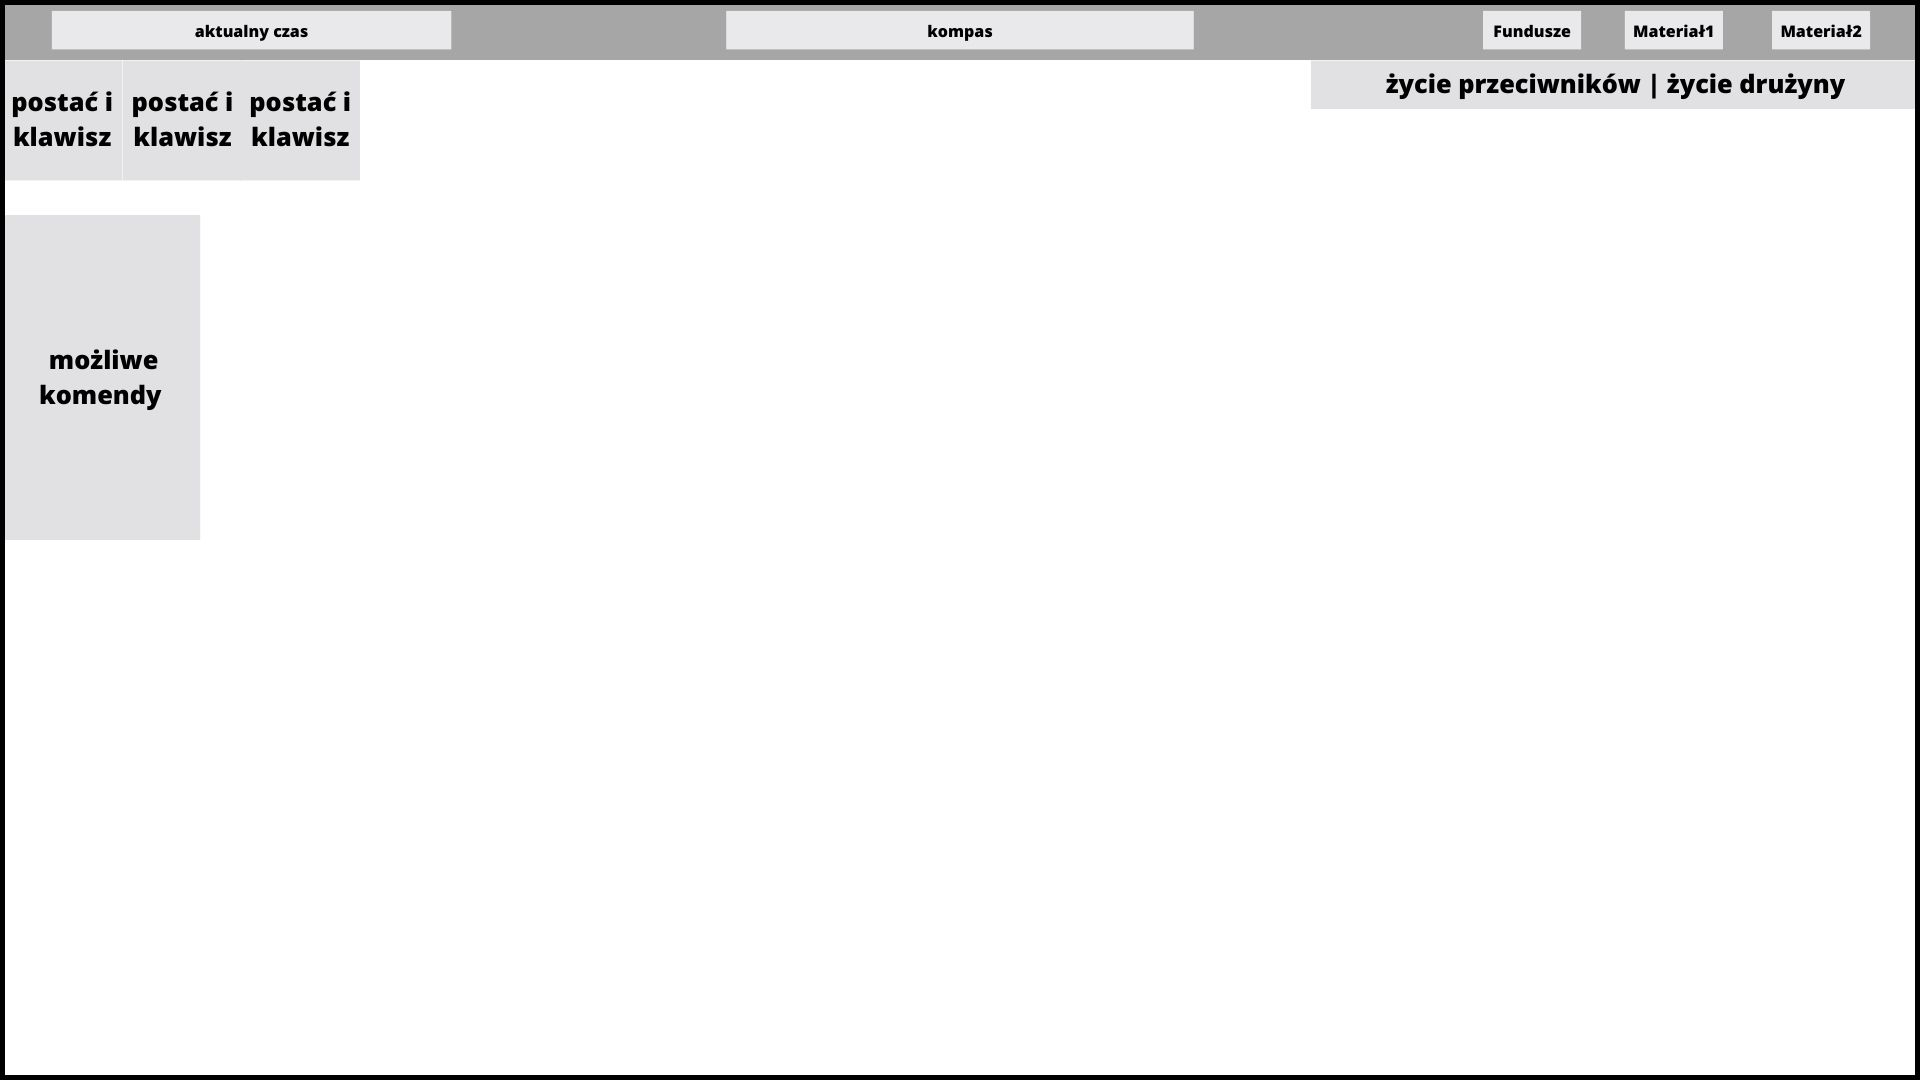
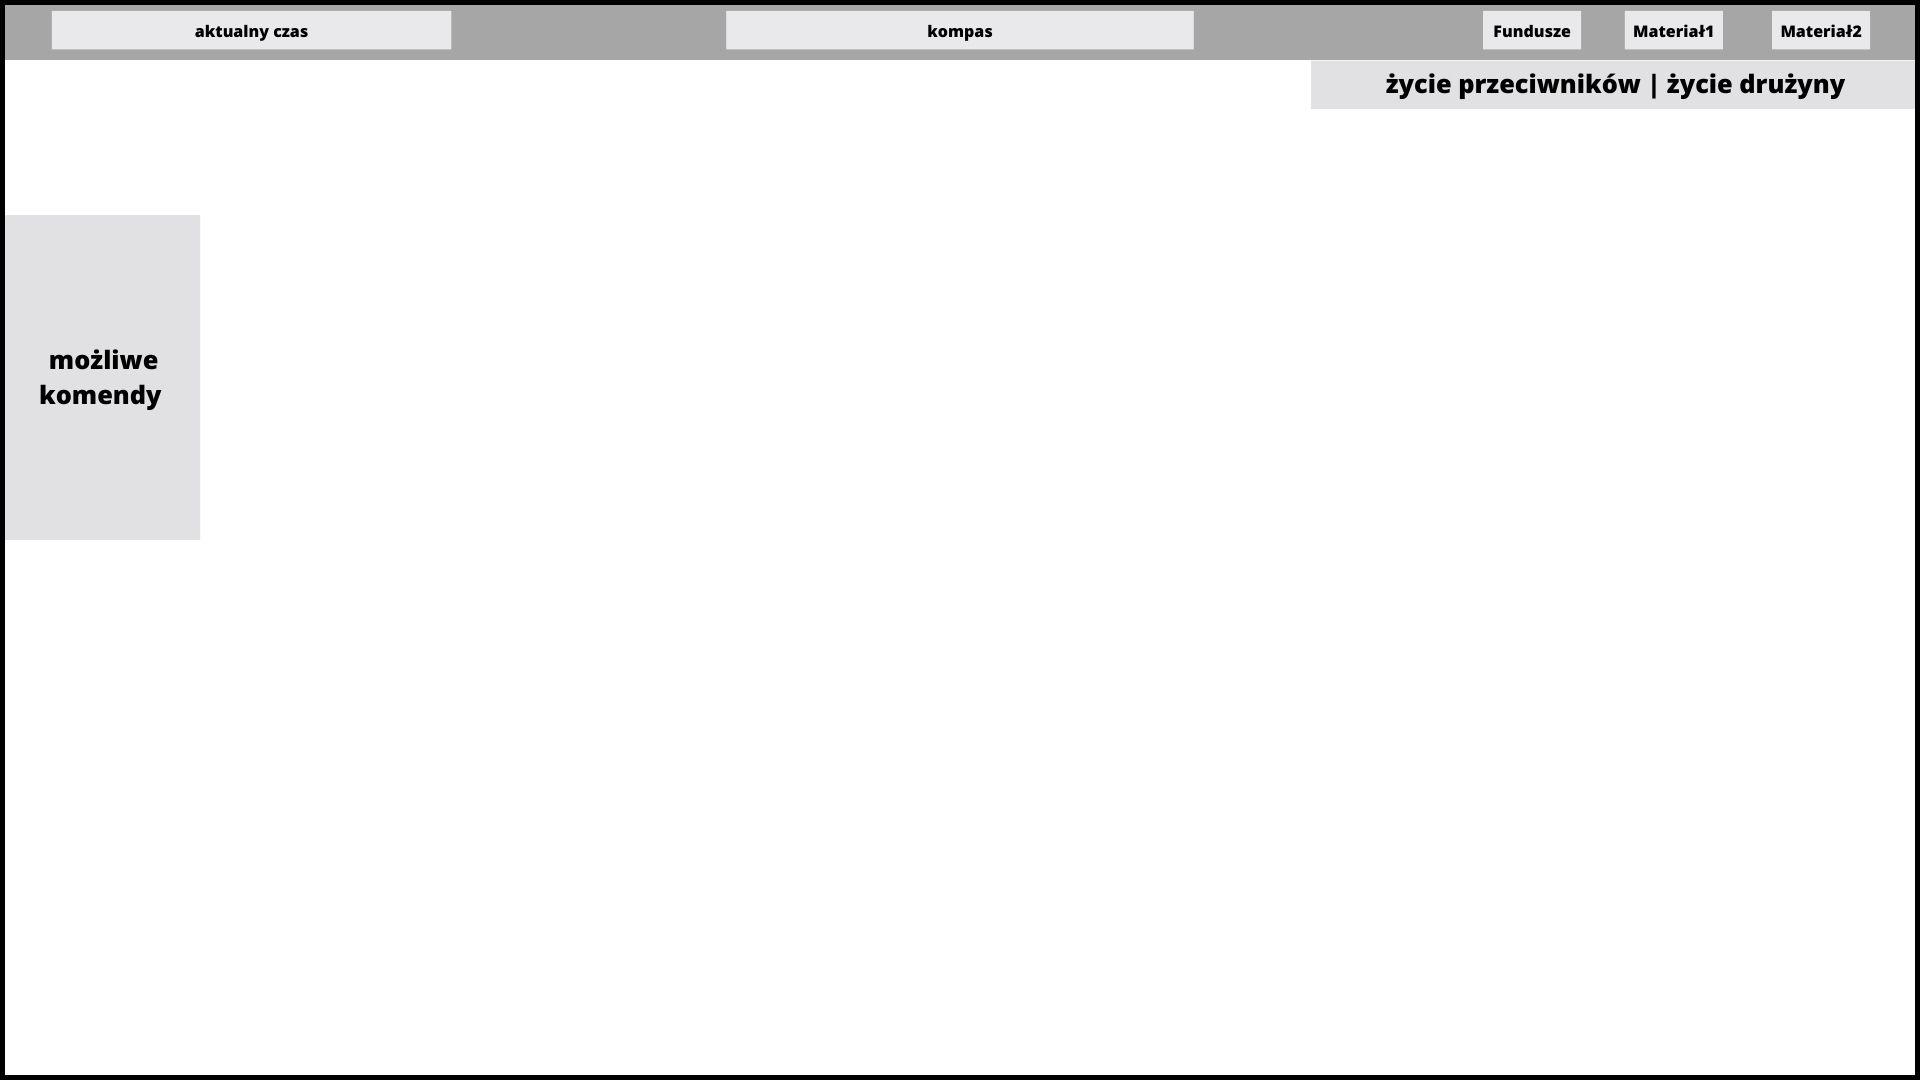
image fix

Changed region(s): [[0.0, 0.0306, 0.1875, 0.1833]]

diff --git a/docs/chapters/projekt/ui_proj.tex b/docs/chapters/projekt/ui_proj.tex
@@ -2,65 +2,47 @@
 Interfejs użytkownika (ang. user interface, UI)jest to zbiór najważniejszych informacji przedstawiony graczowi w sposób czytelny. Może się to odbywać za pomocą na przykład obrazków, tekstów, czy wskaźników. Dzięki UI możliwy jest wgląd w aktualny stan wiedzy grywalnej postaci. 
 Projekt interfejsu użytkownika przewiduje trzy tryby: zwykły, budowania oraz walki. Zadaniem każdego z nich będzie odzwierciedlenie aktualnej wiedzy granej postaci z naciskiem na najpotrzebniejsze w danej chwili informacje.
 	
-\subsubsection{Tryb zwykły}
-Tryb zwykły przewiduje podstawowe funkcje, takie jak pokazanie:
+\subsection{Interfejs podstawowy}
+Interfejs podstawowy przewiduje funkcje, takie jak pokazanie:
 surowców i funduszy,
 aktualnego czasu w grze, 
 kompasu,
-ikony postaci, na które gracz może się przełączyć;
-Inspiracją dla górnego paska z informacjami oraz dla ikon dostępnych postaci jest ten użyty w grze Warcraft 3. Prostota i surowość użytego stylu będą współgrać z klimatem gry.
+Inspiracją dla górnego paska z informacjami jest ten użyty w grze Warcraft 3. Prostota i surowość stylu będą współgrać z klimatem gry.
 
 \begin{figure}[htbp]
     \centering
-    \includegraphics[width=0.9\textwidth]{images/ui/warcraft3.png}
-    \caption{Pasek z informacjami oraz dla ikony dostępnych postaci w grze Warcraft 3.}\label{fig:Warcraft3}
+    \includegraphics[width=1.0\textwidth]{images/ui/warcraft3_gorny_pasek.png}
+    \caption{Pasek z informacjami w grze Warcraft 3.}\label{fig:Warcraft3}
 \end{figure}
 
 W naszej grze skupimy się jednak na tym, aby interfejs użytkownika zabierał jak najmniej miejsca. Dlatego też projekt zakłada, że poszczególne obiekty nie będą ze sobą połączone, a jedynie “dryfować” w przestrzeni.
 Jako ważny element tej części UI zawarty zostanie kompas, wzorowany na tym z gry The Elder Scrolls V: Skyrim.
 
-\begin{figure}[htbp]
-    \centering
-    \includegraphics[width=0.9\textwidth]{images/ui/compassSkyrim.png}
-    \caption{Kompas z gry Skyrim}\label{fig:Fallout}
-\end{figure}
 
-Szacowany projekt trybu zwykłego UI wyświetlono na rysunku \ref{fig:ui_main} .
+Szacowany projekt interfejsu podstawowego UI wyświetlono na rysunku \ref{fig:ui_main} .
 \begin{figure}[htbp]
     \centering
     \includegraphics[width=0.9\textwidth]{images/ui/ui_proj_ogolne.jpg}
-    \caption{Projekt trybu zwykłego UI.
+    \caption{Projekt interfejsu podstawowego UI.
     }\label{fig:ui_main}
 \end{figure}
  
-\subsubsection{Tryb budowania}
- W trybie budowania informacje wcześniej przedstawione zostaną na ekranie. Dodatkowo pokażą nam się dostępne do zbudowania budynki, a po wybraniu pojawią się przed nami. Po zatwierdzeniu budynek zostanie wybudowany.
+\subsection{Menu stawiania budynków}
+ W menu stawiania budynków informacje wcześniej przedstawione zostaną na ekranie. Dodatkowo pokażą nam się dostępne do zbudowania budynki, a po wybraniu pojawią się przed nami. Po zatwierdzeniu budynek zostanie wybudowany.
 	Inspiracją do przedstawienia dostępnych budowli jest rozwiązanie gry Orcs must die!
 
-    \begin{figure}[h!tbp]
-        \centering
-        \includegraphics[width=0.5\textwidth]{images/ui/buoildingsOrcs.png}
-        \caption{Wyświetlenie dostępnych pułapek w Orcs must die!}\label{fig:Orcs}
-    \end{figure}
 
     Szacowany projekt trybu budowania UI wyświetlono na rysunku \ref{fig:ui_bud} .
     \begin{figure}[htbp]
         \centering
         \includegraphics[width=0.9\textwidth]{images/ui/ui_proj_budowanie.jpg}
-        \caption{Projekt trybu budowania UI.
+        \caption{Projekt menu stawiania budynków UI.
         }\label{fig:ui_bud}
     \end{figure}
 
 
-\subsubsection{Tryb walki}
+\subsection{Tryb walki}
 Bliźniaczo do trybu budowania, gdy rozpocznie się walka, podstawowe informacje zostają na ekranie, a dodatkowo gracz dostaje informacje o dostępnych rozkazach do wydania. Nasze rozwiązanie będzie podobne do pomysłu z gry Mount\&Blade.
-
-\begin{figure}[h!tbp]
-    \centering
-    \includegraphics[width=0.9\textwidth]{images/ui/commandsMountBla.png}
-    \caption{Wykaz dostępnych rozkazów z gry Mount\&Blade.}\label{fig:MountnBlade}
-    \label{fig:mnb}
-\end{figure}
 
 Szacowany projekt trybu budowania UI wyświetlono na rysunku \ref{fig:ui_wal} .
     \begin{figure}[htbp]

diff --git a/docs/chapters/wprowadzenie_do_dziedziny/mount_blade.tex b/docs/chapters/wprowadzenie_do_dziedziny/mount_blade.tex
@@ -3,3 +3,10 @@
 Mount\&Blade jest to gra komputerowa z gatunku cRPG (komputerowa gra fabularna, ang. computer role-playing game) z elementami strategicznymi, stworzona przez turecką firmę TaleWorlds Entertainment i wydana przez Paradox Interactive. W otwartym świecie fikcyjnej krainy Calradia, stylizowanej na czasy średniowieczne, gracz ma pełną dowolność stylu rozgrywki. W jego mocy jest zarówno zbieranie armii i dążenie do zostania królem, jak i zostanie wasalem jednego z władców. Za pomocą dialogów i walk z postaciami gracz buduje unikatową historię.
 Jedną z wartych uwagi mechanik, zaimplementowaną w grze Mount\&Blade, jest sterowanie jednostkami służącymi granemu charakterowi. Gracz bezpośrednio kieruje jedynie główną postacią. Podczas walki reszcie może wydawać rozkazy. Poprzez cyfry 0-4 wybiera grupę, do której się odnosi np. łuczników. Następnie przez klawisze F1-F11 wydaje konkretny rozkaz np. odwrót. Sztuczna inteligencja postaci zajmuje się już samym wykonaniem czynności. Gracz nie martwi się, czy jednostki znajdą optymalną drogę, będą celować w przeciwników, czy z nimi walczyć.
 
+
+\begin{figure}[h!tbp]
+    \centering
+    \includegraphics[width=0.9\textwidth]{images/ui/commandsMountBla.png}
+    \caption{Wykaz dostępnych rozkazów z gry Mount\&Blade.}\label{fig:MountnBlade}
+    \label{fig:mnb}
+\end{figure}

diff --git a/docs/chapters/wprowadzenie_do_dziedziny/orcs_must_die.tex b/docs/chapters/wprowadzenie_do_dziedziny/orcs_must_die.tex
@@ -2,3 +2,9 @@
 
 Orcs must die! to strategiczna gra akcji stworzona i wydana przez studio Robot Entertainment. Akcja toczy się w krainie fantasy, w której największym zagrożeniem dla ludzkości są orkowie. W obronie świata przed tymi stworzeniami staje Zakon dowodzony przez Wojennych Magów. Wznieśli oni system fortec odgradzających ojczyznę orków od pozostałych ziem. Zadaniem gracza jest wcielenie się w jednego z  Wojennych Magów i mordowanie nadciągających grup orków za pomocą różnorodnych broni i mechanizmów, które może postawić.
 W przejrzysty sposób zostało rozwiązane samo wyświetlenie dostępnych do zbudowania pułapek. Graczowi pokazują się wizerunki mechanizmów, które może postawić. Naciskając odpowiedni numer na klawiaturze, gracz wybiera, co chce zbudować. Po zatwierdzeniu lewym przyciskiem myszki, budynek pojawia się w zaznaczonym miejscu.
+
+\begin{figure}[h!tbp]
+    \centering
+    \includegraphics[width=0.5\textwidth]{images/ui/buoildingsOrcs.png}
+    \caption{Wyświetlenie dostępnych pułapek w Orcs must die!}\label{fig:Orcs}
+\end{figure}

diff --git a/docs/chapters/1_wstep.tex b/docs/chapters/1_wstep.tex
@@ -6,7 +6,7 @@ istniejącej sytuacji w toku dyskusji z naocznymi świadkami, takimi jak dowódc
 
 Współczesne gry komputerowe, których fabuła osadzona jest w tych czasach, stosuje wiele uproszczeń. Ma to na celu poprawienie jakości
 rozgrywki gracza, jednakże sprawia, że nie oddaje w pełni realiów. Często obraz dzisiejszych możliwości zasłania faktyczne dowodzenie
-w czasach, w których dzieje się gra. Technologia XXI wieku pozwala oficerom na wydawanie rozkazów na podstawie dokładnych map poprzez radio.
+w czasach, w których dzieje się gra. Technologia nieznana starożytnym teraz pozwala oficerom na wydawanie rozkazów na podstawie dokładnych map poprzez radio.
 Jednak w dawniejszych czasach było to niemożliwe. W większości gier historycznych grywalna postać momentami ma wręcz boskie umiejętności i wiedzę. Zwykły człowiek nie był w
 stanie w jednej chwili zobaczyć całego grywalnego świata i wydać komendę jednostkom, znajdującym się na drugim jego końcu, o przemieszczeniu
 się do punktu z dokładnością do jednego metra.

diff --git a/docs/chapters/wprowadzenie_do_dziedziny/skyrim.tex b/docs/chapters/wprowadzenie_do_dziedziny/skyrim.tex
@@ -4,4 +4,9 @@ The Elder Scrolls V: Skyrim (skrótowo Skyrim) jest to fabularna gra akcji o otw
 	Z punktu tworzonej przez nas gry, szczególnie interesujące jest  bardzo proste i sprytne rozwiązanie, jakim jest pasek przedstawiający pole widzenia gracza. Służy on między innymi jako kompas, ponieważ jedną z jego mechanik jest pokazanie użytkownikowi stron świata, znajdujących się w kierunku, w którym on patrzy. Pasek ułatwia także poruszanie się po świecie sygnalizując położenie wrogów, kompanów i ważnych dla rozgrywki lokalizacji.
 
 
+	\begin{figure}[htbp]
+		\centering
+		\includegraphics[width=0.9\textwidth]{images/ui/compassSkyrim.png}
+		\caption{Kompas z gry Skyrim}\label{fig:Fallout}
+	\end{figure}
 
